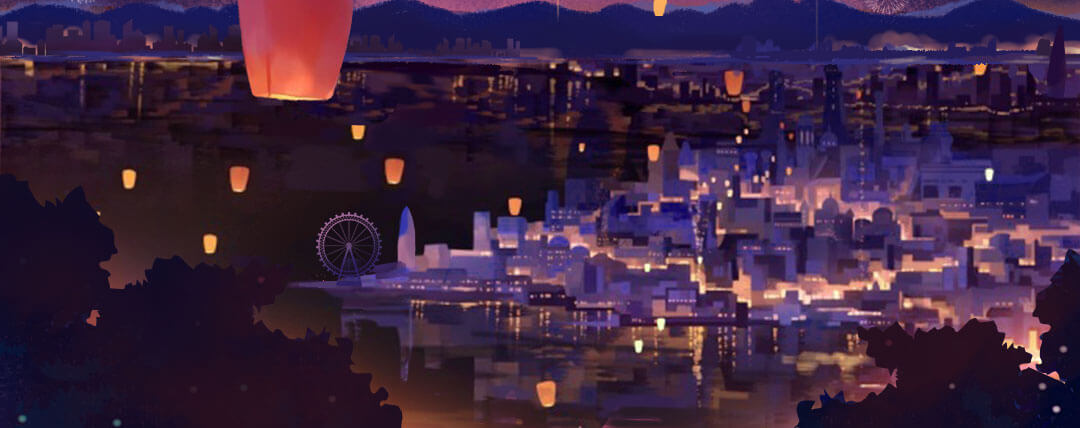
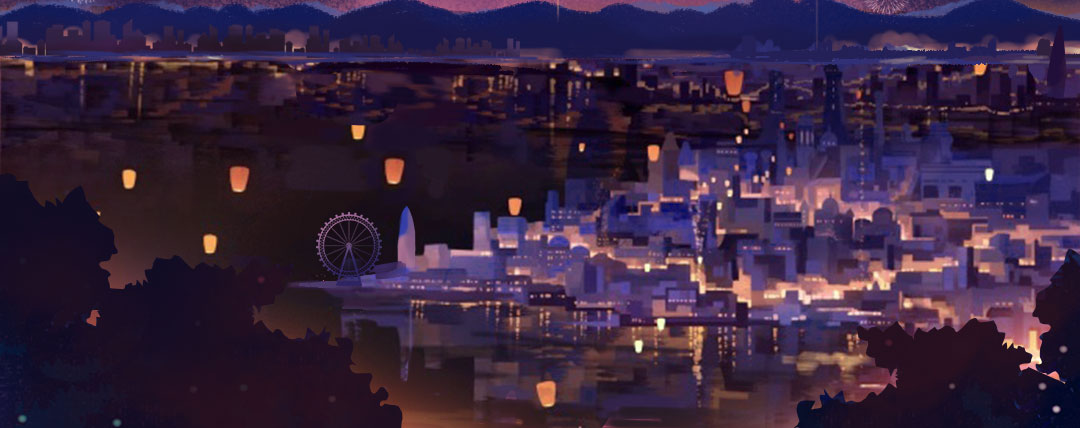
加入星星闪烁

Changed region(s): [[0.2139, 0.0, 0.3361, 0.243], [0.5806, 0.0, 0.6417, 0.0304]]

diff --git a/src/index.css b/src/index.css
@@ -142,6 +142,7 @@ a:hover{
 	bottom:0;
 	left:50%;
 	transform: translateX(-50%);
+	z-index: 9;
 }
 .flag-wrap .flag{
 	position: absolute;
@@ -249,6 +250,19 @@ a:hover{
 	50%  {width: 80%;}
 	75%  {width: 90%;}
 	100% {width: 95%;}
+}
+#star-bg{
+	animation-name: staranimate;
+  	animation-duration: 1.5s;
+	animation-iteration-count:infinite;
+	animation-direction:reverse;
+	animation-timing-function:ease;
+	opacity: 0;
+}
+@keyframes staranimate {
+	0%   {opacity: 0;}
+	50%  {opacity: 1;}
+	100% {opacity: 0}
 }
 .dialog .loading-line .progress .icon{
 	width:20px;

diff --git a/index.html b/index.html
@@ -90,7 +90,8 @@
 			</div>
 			<div class="flagstaff"></div>
 		</div>
-		<img class="starry-bg" src="./src/images/flag-city.jpg" alt="">
+		<img class="starry-bg" style="z-index: 10;" src="./src/images/flag-city.jpg" alt="">
+		<img class="starry-bg" id="star-bg" src="./src/images/bg2.png" alt="">
 		<div class="touch-btn"></div>
 		<div class="dialog step-dialog">
 			<div class="pic">
